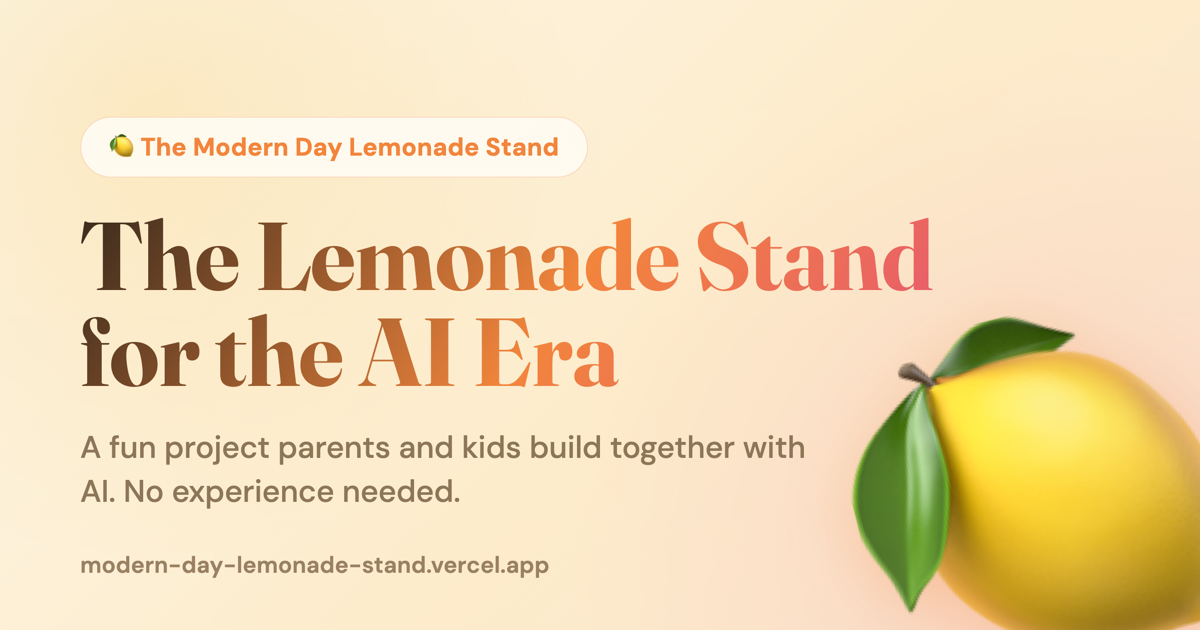
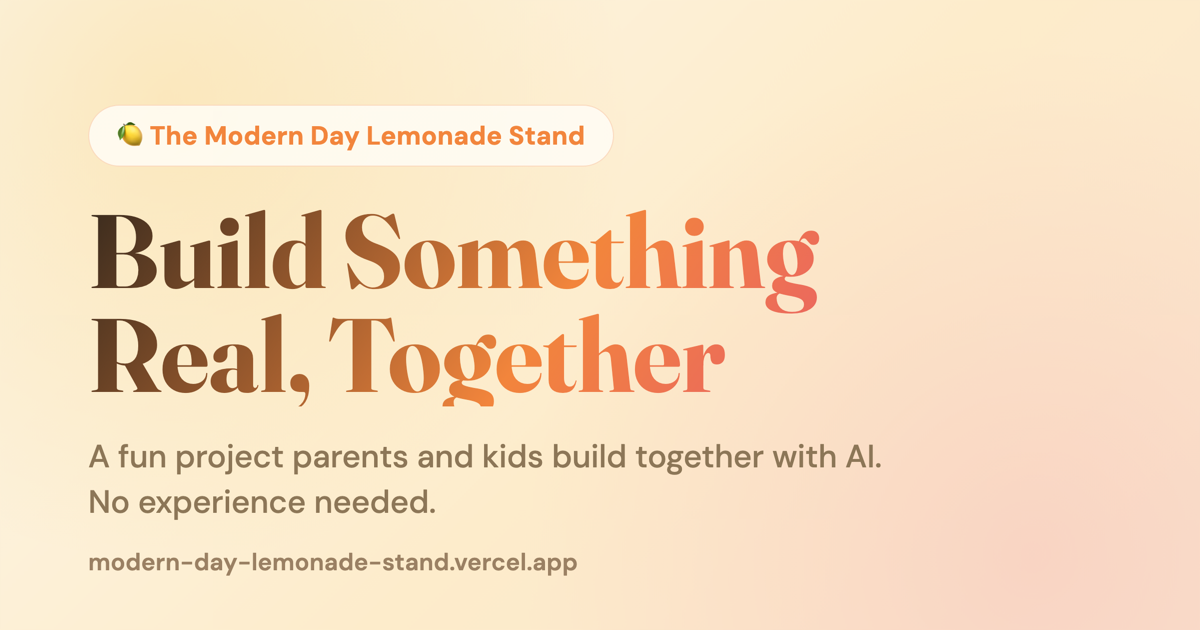
Update hero + share card: new headline, remove large lemon
- Headline now "Build Something Real, Together" (hero + OG image)
- Removed the oversized lemon from the share card for a cleaner look

diff --git a/index.html b/index.html
@@ -372,7 +372,7 @@
 <!-- ═══════════ HERO ═══════════ -->
 <section class="hero">
   <div class="hero-badge">&#x1F34B; The Modern Day Lemonade Stand</div>
-  <h1>The Lemonade Stand for the AI Era</h1>
+  <h1>Build Something Real, Together</h1>
   <p class="hero-sub">AI can feel intimidating, especially as a parent. It doesn't have to be. This is a fun project you build together with your kids, no experience needed, that turns AI from something scary into something your whole family can create with.</p>
   <a href="#story" class="hero-cta" onclick="var s=document.getElementById('story'); if(s) s.classList.add('open');">See How We Did It &darr;</a>
   <div class="scroll-hint"><span>&darr;</span></div>